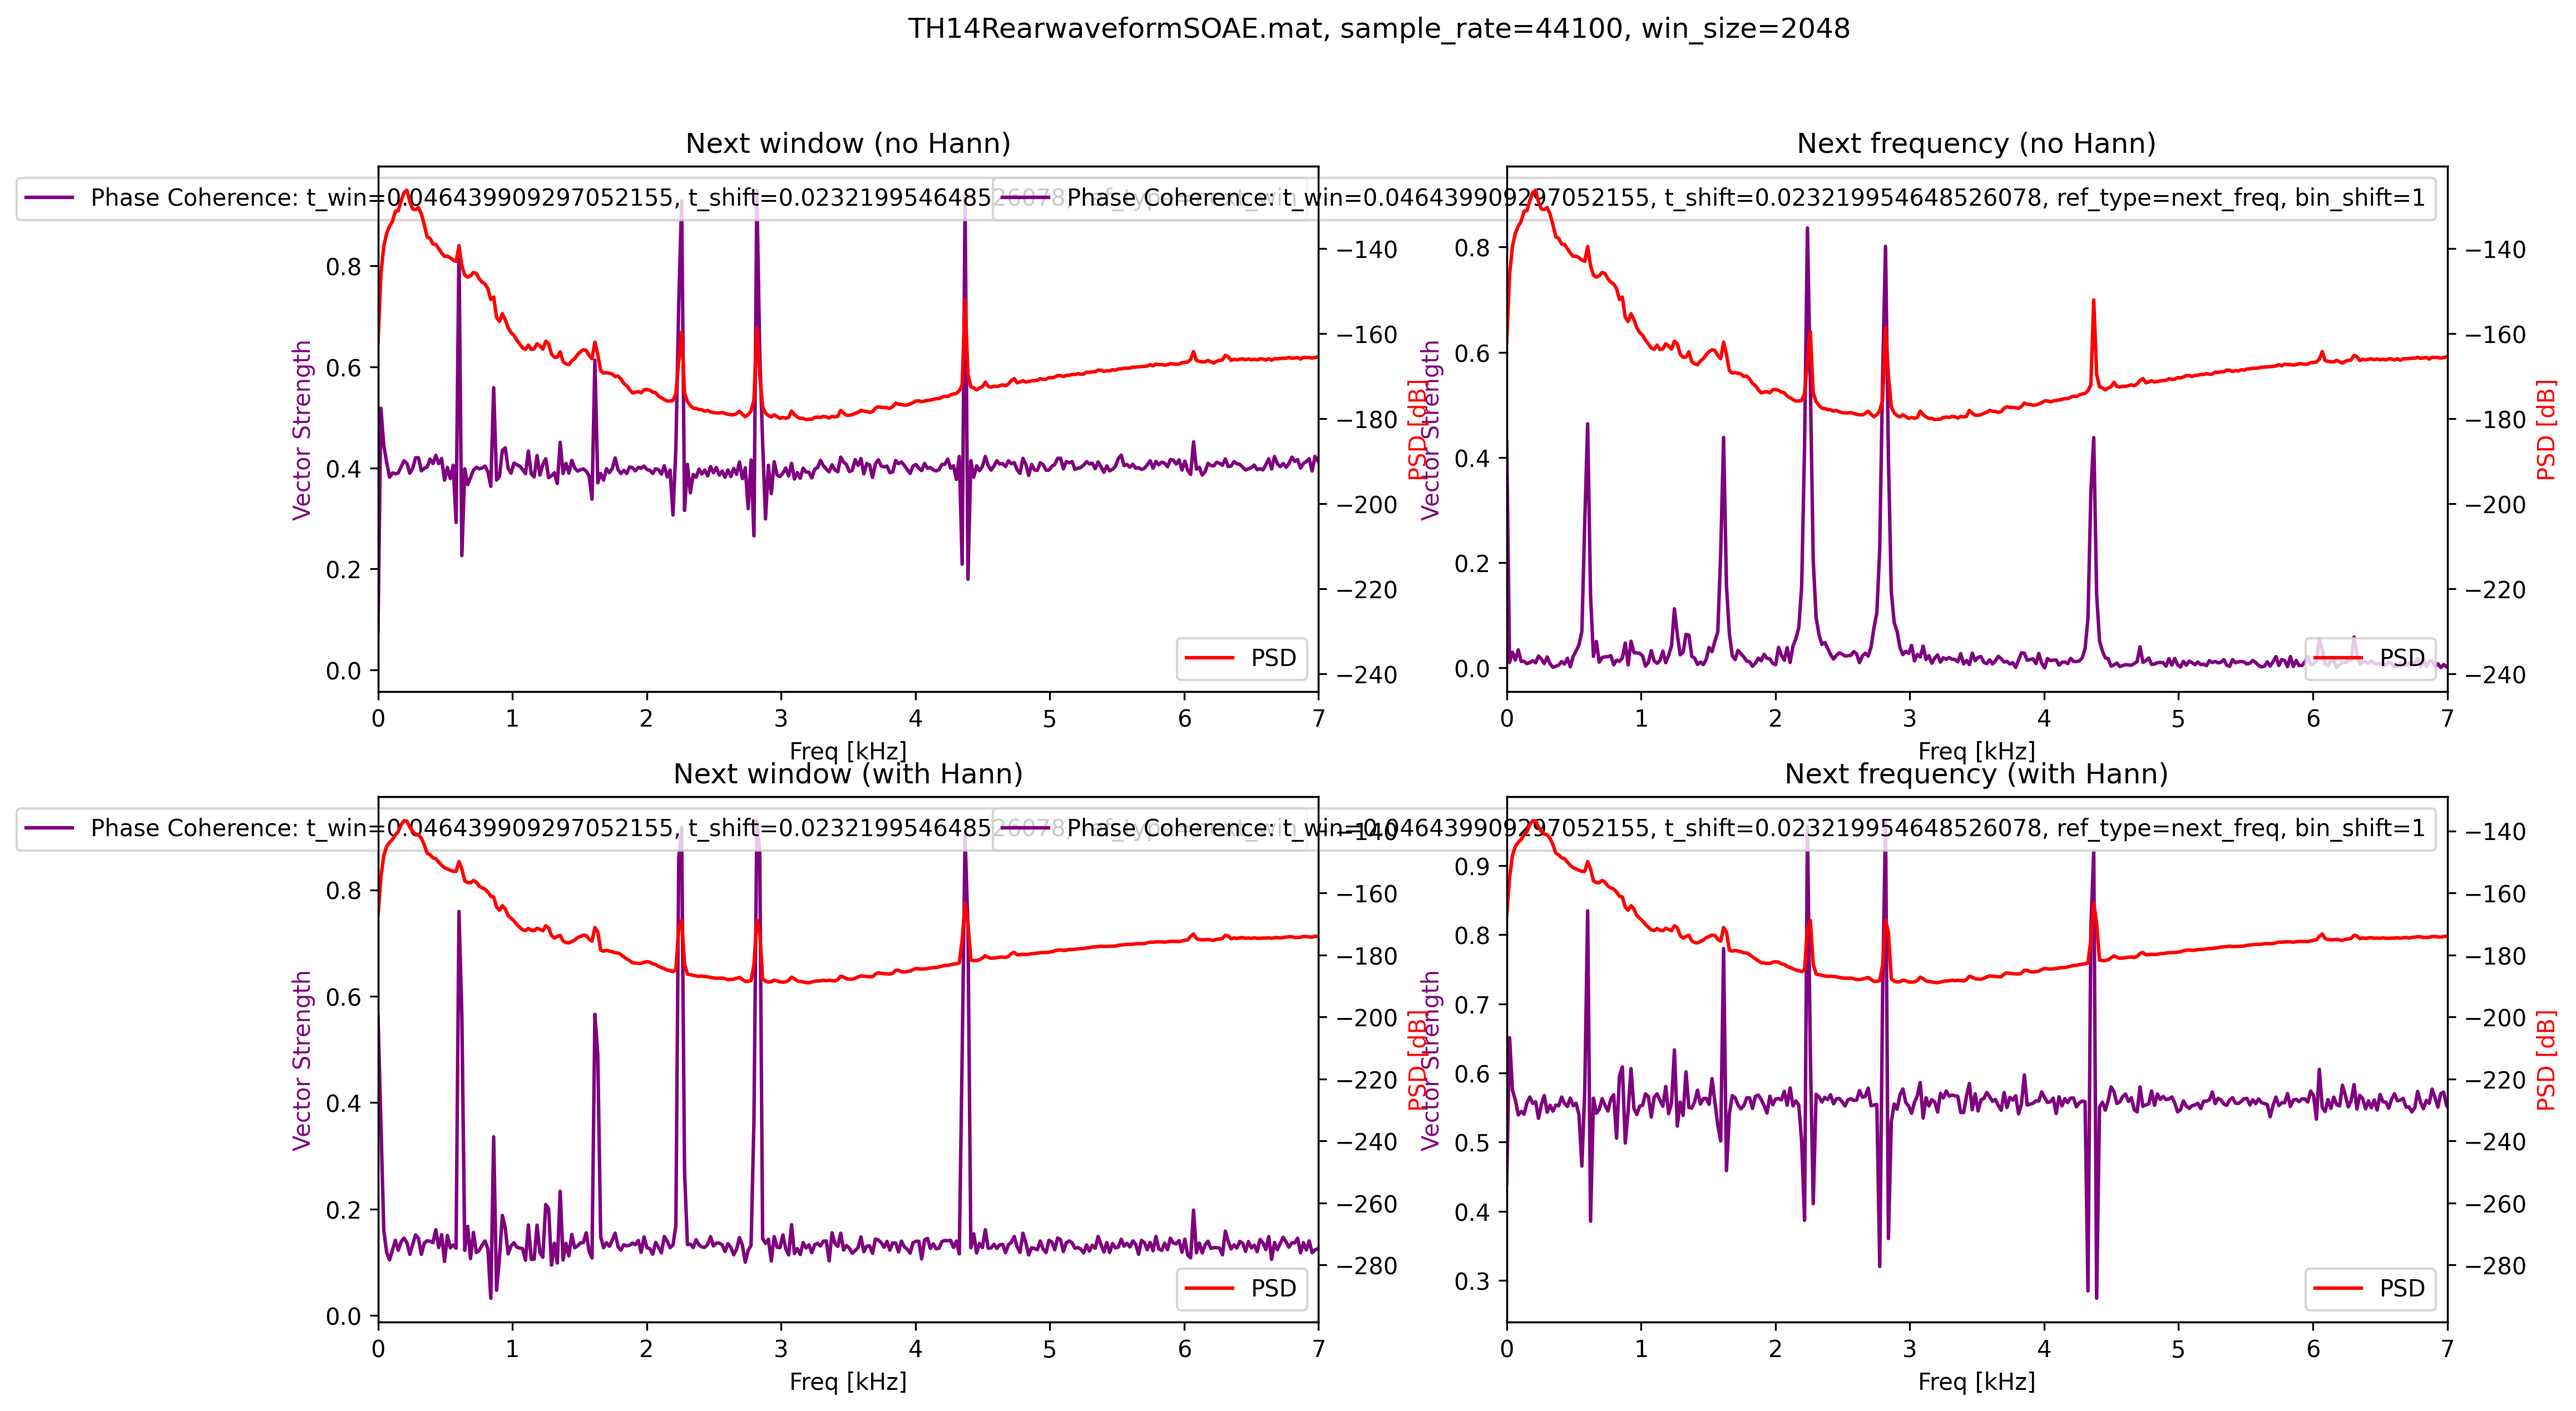
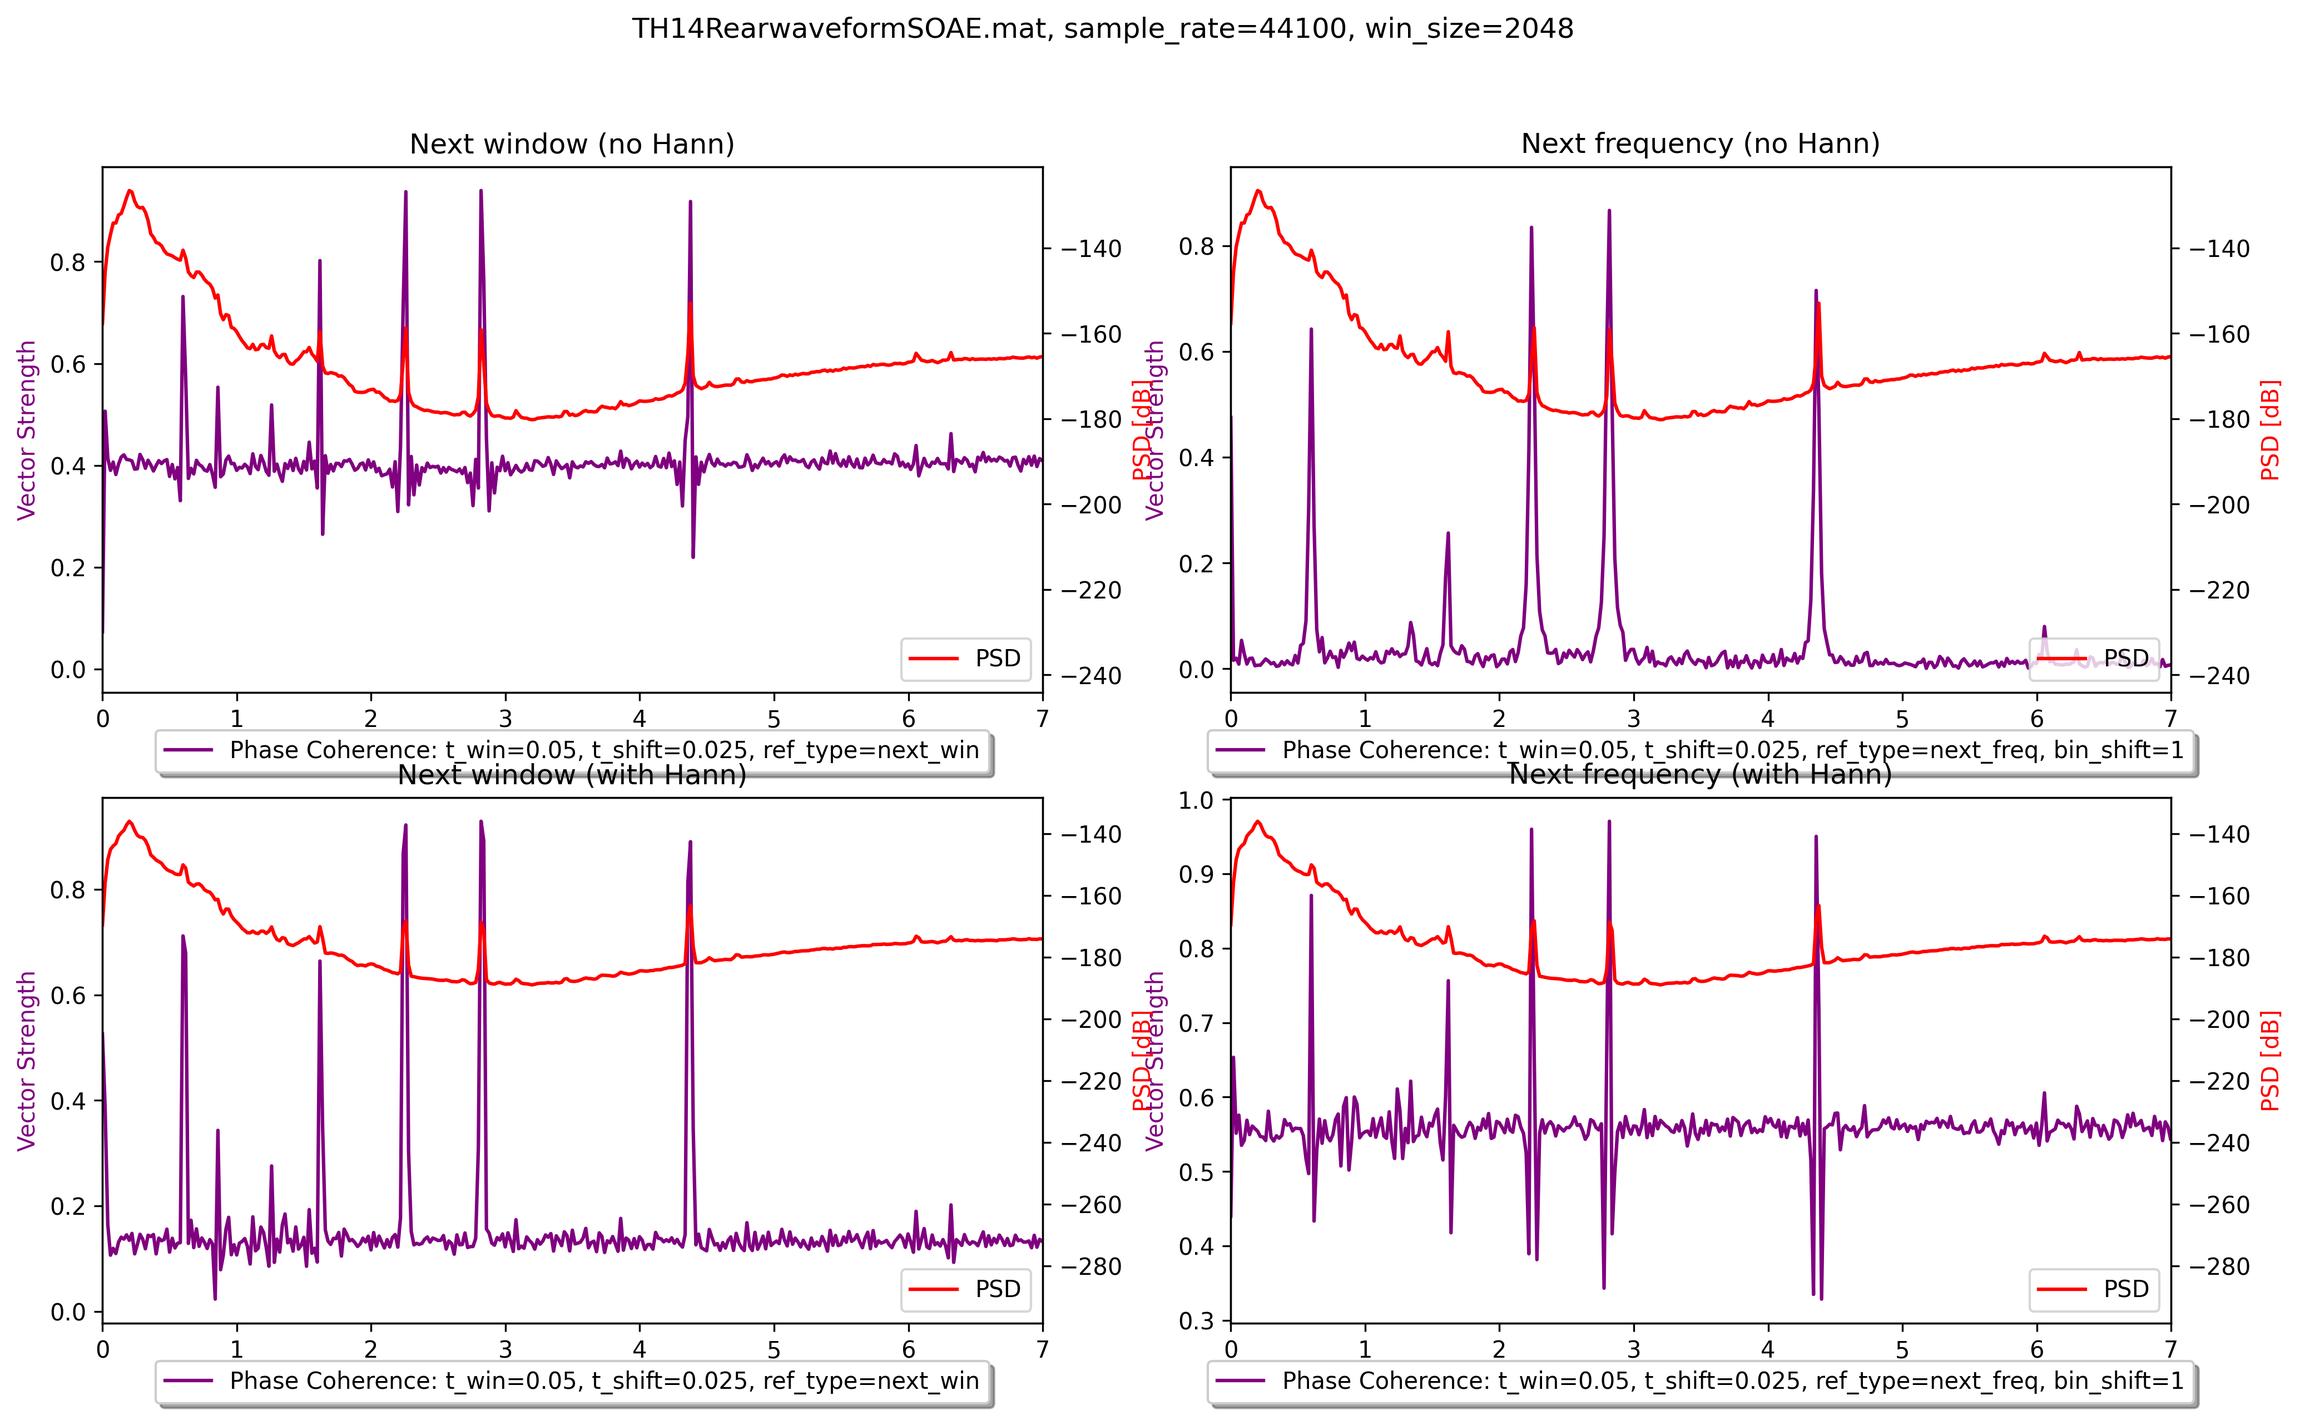
a

diff --git a/misc_deniz2.py b/misc_deniz2.py
@@ -38,7 +38,8 @@ ymax=None
 # ymin=0
 # ymax=8
 show_plot=False
-t_win = win_size / sample_rate
+#t_win = win_size / sample_rate
+t_win = 0.05
 hann = True
 t_shift = t_win / 2 #set this to half the window size #it used to be 0.1
 fcut=False
@@ -55,28 +56,32 @@ fig.suptitle(str((filename) + ", sample_rate=" + str(sample_rate) + ", win_size=
 ref_type = "next_win"
 coherence_vs_psd(ax=axes[0], t_shift=t_shift, fcut=fcut, wf_title=wf_title, wf=wf, ref_type=ref_type, t_win=t_win, sample_rate=sample_rate,
                  xmin=xmin, xmax=xmax, khz=khz, show_plot=show_plot, hann=False)
-axes[0].legend(loc='upper right')
+axes[0].legend(loc='upper center', bbox_to_anchor=(0.5, -0.05),
+          fancybox=True, shadow=True, ncol=5)
 axes[0].set_title("Next window (no Hann)")
 
 
 ref_type="next_freq"
 coherence_vs_psd(wf_title=wf_title, t_shift=t_shift, fcut=fcut, ax=axes[1], wf=wf, ref_type=ref_type, t_win=t_win, sample_rate=sample_rate,
                  xmin=xmin, xmax=xmax, khz=khz, show_plot=show_plot, hann=False)
-axes[1].legend(loc='upper right')
+axes[1].legend(loc='upper center', bbox_to_anchor=(0.5, -0.05),
+          fancybox=True, shadow=True, ncol=5)
 axes[1].set_title("Next frequency (no Hann)")
 
 
 ref_type = "next_win"
 coherence_vs_psd(ax=axes[2], t_shift=t_shift, fcut=fcut, wf_title=wf_title, wf=wf, ref_type=ref_type, t_win=t_win, sample_rate=sample_rate,
                  xmin=xmin, xmax=xmax, khz=khz, show_plot=show_plot, hann=hann)
-axes[2].legend(loc='upper right')
+axes[2].legend(loc='upper center', bbox_to_anchor=(0.5, -0.05),
+          fancybox=True, shadow=True, ncol=5)
 axes[2].set_title("Next window (with Hann)")
 
 
 ref_type="next_freq"
 coherence_vs_psd(wf_title=wf_title, t_shift=t_shift, fcut=fcut, ax=axes[3], wf=wf, ref_type=ref_type, t_win=t_win, sample_rate=sample_rate,
                  xmin=xmin, xmax=xmax, khz=khz, show_plot=show_plot, hann=hann)
-axes[3].legend(loc='upper right')
+axes[3].legend(loc='upper center', bbox_to_anchor=(0.5, -0.05),
+          fancybox=True, shadow=True, ncol=5)
 axes[3].set_title("Next frequency (with Hann)")
 
 dpi=300
